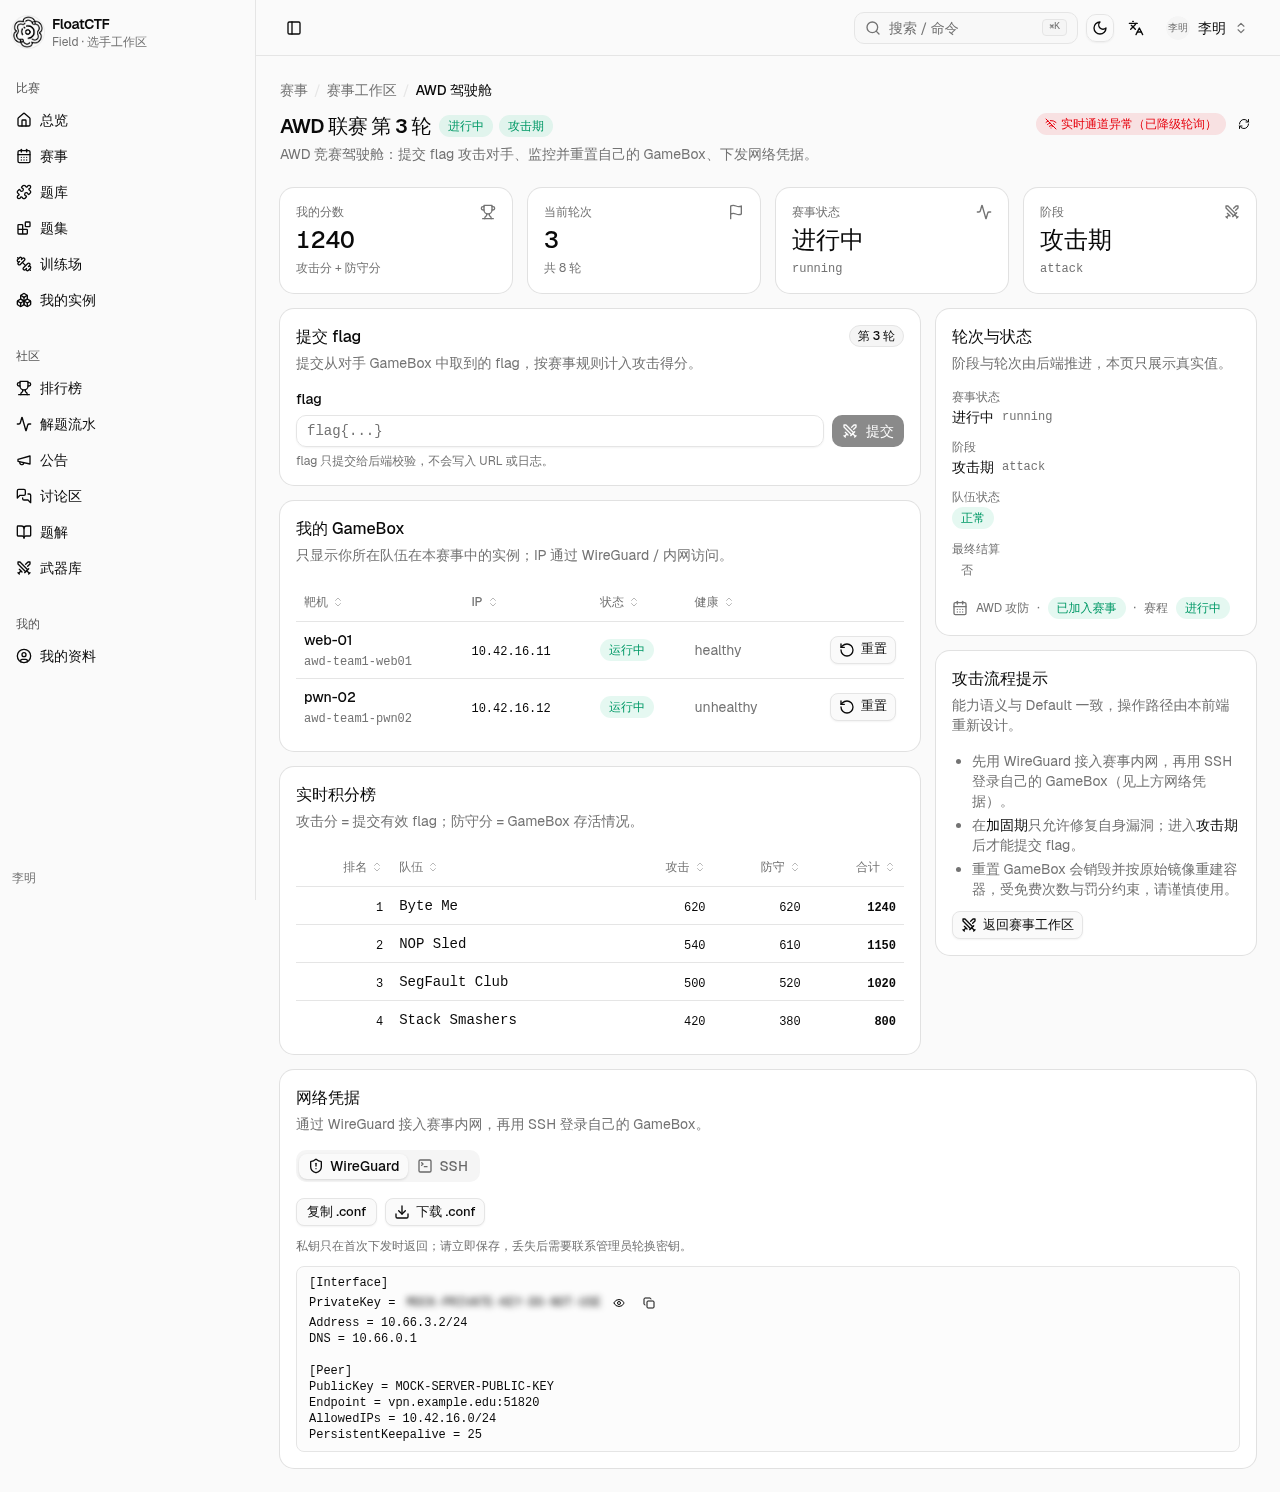
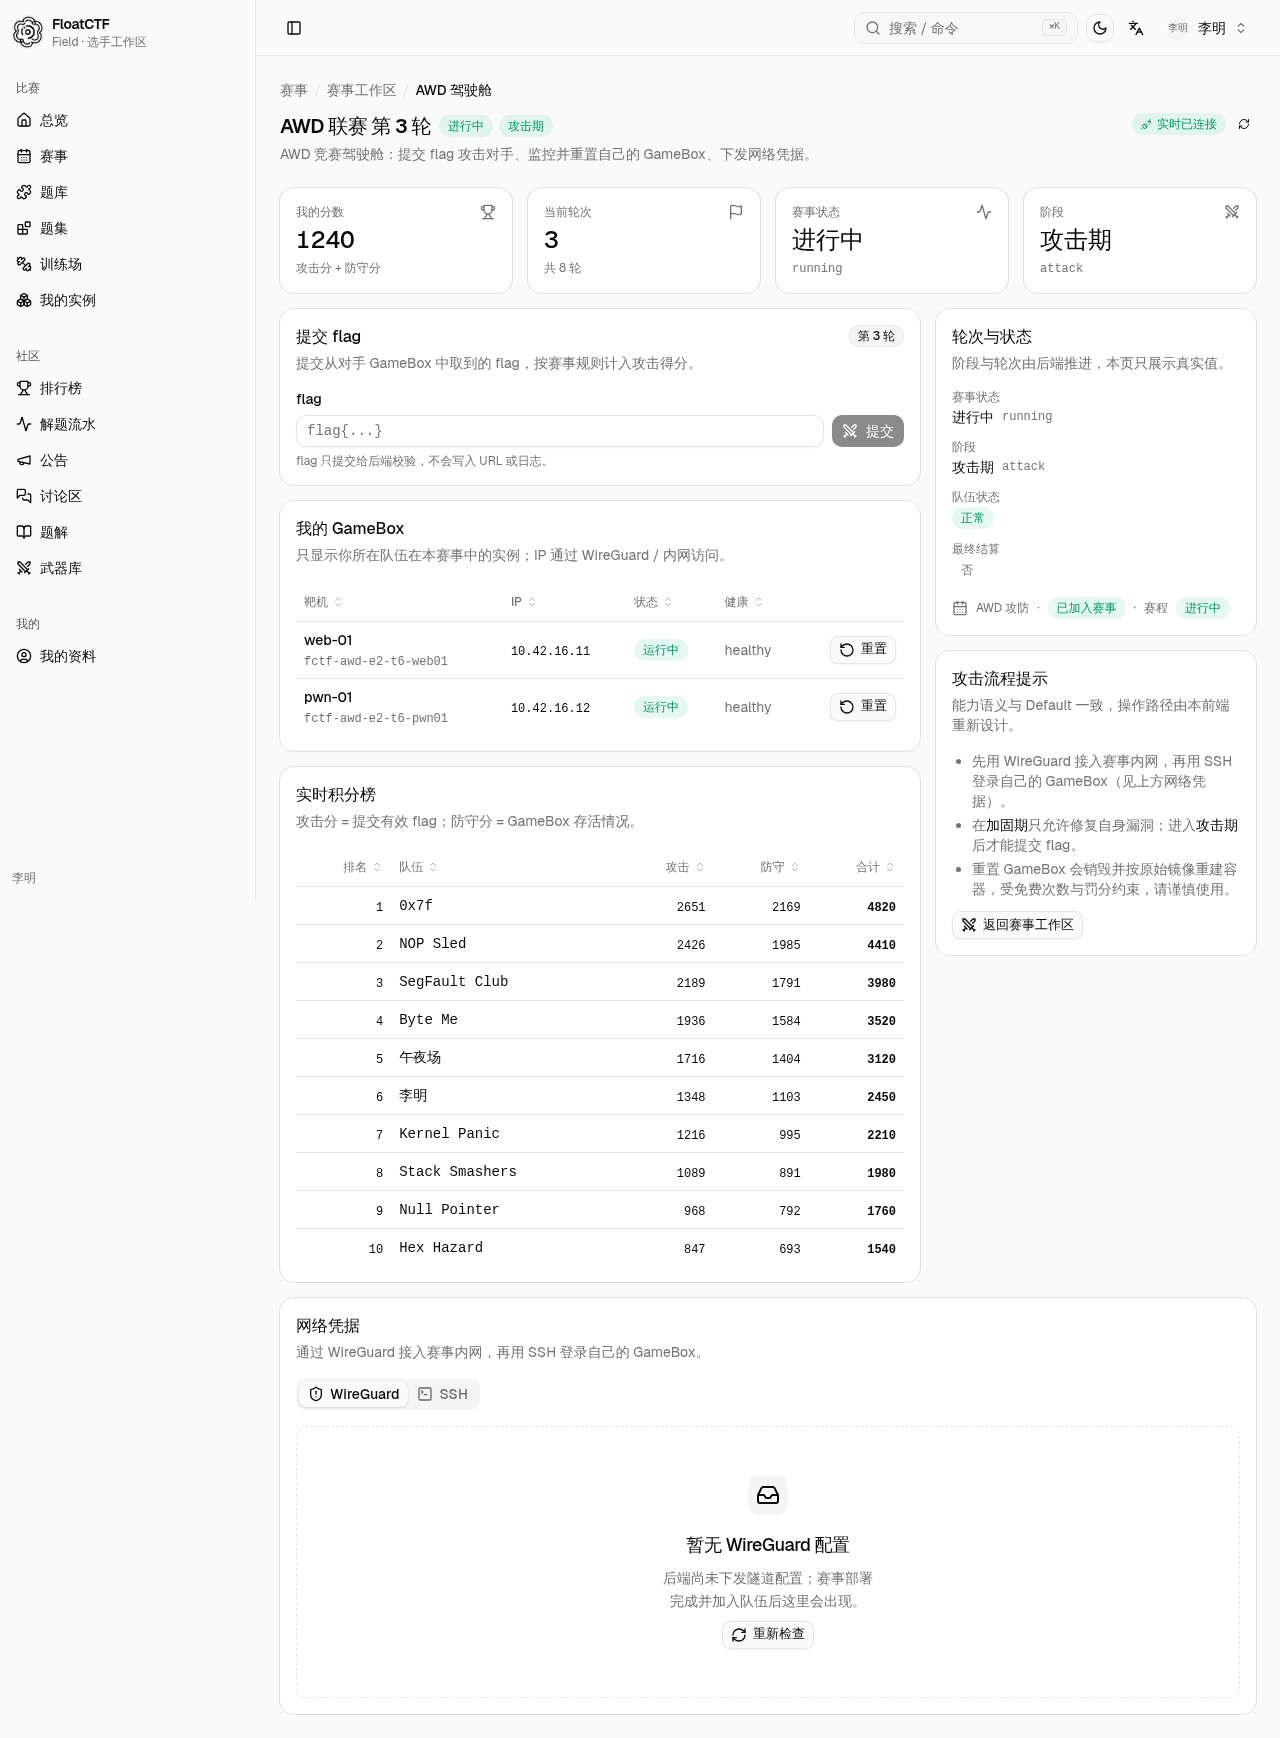
feat(realtime,palette): mock 支持 SSE（含 __sse/close 断线测试），命令面板上下文命令真正接上（聚焦提交 flag / 刷新），README 补 SSE 说明

diff --git a/src/features/awd/pages.tsx b/src/features/awd/pages.tsx
@@ -49,6 +49,8 @@ import {
 	AwdScoreboardPanel,
 	AwdStatePills,
 } from "./components";
+import { useCommands } from "~/app/command-palette";
+
 import { awdPhaseKey, awdStatusKey, eventFamilyKey } from "./domain";
 
 export function ArenaPage(): ReactNode {
@@ -73,6 +75,31 @@ export function ArenaPage(): ReactNode {
 			call<EventInfo>(client.service.events.get(eventId), t("awd.actionNames.event")),
 		enabled: Boolean(eventId),
 	});
+
+	// 命令面板的上下文命令：只注册本页真实存在的动作（聚焦提交框 / 刷新权威状态）。
+	useCommands(
+		[
+			{
+				id: "awd-focus-flag",
+				label: t("shell.commands.focusFlag"),
+				keywords: "flag submit 提交",
+				run: () => {
+					// 命令面板关闭时 Radix 会把焦点还给触发元素：延后一帧再聚焦目标输入框。
+					window.setTimeout(() => document.getElementById("awd-flag")?.focus(), 80);
+				},
+			},
+			{
+				id: "awd-refresh",
+				label: t("shell.commands.refresh"),
+				keywords: "refresh reload 刷新",
+				run: () => {
+					void statusQuery.refetch();
+					void eventQuery.refetch();
+				},
+			},
+		],
+		[eventId],
+	);
 
 	const status = statusQuery.data;
 	const eventInfo = eventQuery.data;

diff --git a/src/features/training/pages.tsx b/src/features/training/pages.tsx
@@ -54,6 +54,7 @@ import { Button } from "~/components/ui/button";
 import { Input } from "~/components/ui/input";
 import { Tabs, TabsContent, TabsList, TabsTrigger } from "~/components/ui/tabs";
 import { formatBytes, formatDateTime, formatDuration, formatInt, formatPoints } from "~/lib/format";
+import { useCommands } from "~/app/command-palette";
 import { useDebouncedValue, useDocumentTitle } from "~/lib/hooks";
 
 import {
@@ -474,6 +475,22 @@ export function TrainingRunPage(): ReactNode {
 		instanceQuery.dataUpdatedAt >= runQuery.dataUpdatedAt
 			? (instanceQuery.data ?? null)
 			: instanceFromRun;
+
+	useCommands(
+		[
+			{
+				id: "training-run-refresh",
+				label: t("shell.commands.refresh"),
+				keywords: "refresh reload 刷新",
+				run: () => {
+					for (const key of [qk.runs.run(runId), qk.runs.instance(runId), qk.runs.scores(runId)]) {
+						void queryClient.invalidateQueries({ queryKey: key });
+					}
+				},
+			},
+		],
+		[runId],
+	);
 
 	const refreshAll = useCallback(() => {
 		for (const key of [

diff --git a/src/lib/locales/zh/domains/shell.ts b/src/lib/locales/zh/domains/shell.ts
@@ -9,6 +9,10 @@ export default {
 	notSignedIn: "未登录",
 	goPlayer: "前往选手端",
 	commandPanel: "命令面板",
+	commands: {
+		focusFlag: "定位到「提交 flag」",
+		refresh: "刷新当前页面数据",
+	},
 	command: {
 		adminNav: "管理端导航",
 		playerNav: "选手端导航",

diff --git a/src/lib/locales/en/domains/shell.ts b/src/lib/locales/en/domains/shell.ts
@@ -9,6 +9,10 @@ export default {
 	notSignedIn: "Not signed in",
 	goPlayer: "Go to player view",
 	commandPanel: "Command palette",
+	commands: {
+		focusFlag: "Focus the flag field",
+		refresh: "Refresh this page",
+	},
 	command: {
 		adminNav: "Admin navigation",
 		playerNav: "Player navigation",

diff --git a/README.md b/README.md
@@ -57,6 +57,15 @@ mise exec -- pnpm --filter @floatctf/frontend-shadcn dev
 mise exec -- pnpm --filter @floatctf/frontend-shadcn mock:api -- --host 127.0.0.1 --host 10.66.66.2
 ```
 
+mock 覆盖到「能点通」的程度（赛事 / 题库 / 题解 / 训练场 / AWD / AWDP / 管理端运维），
+并包含 **SSE**：`/events/{id}/awd/stream`、`/events/{id}/awdp/stream`、
+`/service/awdp/runs/{id}/stream` 会保持连接并心跳，因此 UI 的实时通道显示「已连接」。
+想验「断线 → 轮询 → 重连」可以：
+
+```bash
+curl -X POST http://127.0.0.1:7780/api/__sse/close   # 主动断开全部 SSE，前端会立刻转 reconnecting 再自动连回
+```
+
 打开 **http://127.0.0.1:13400**（或局域网地址）。
 
 > **dev 路径说明**：`index.html → src/dev.tsx → mount(context)` 直接挂载，与生产
